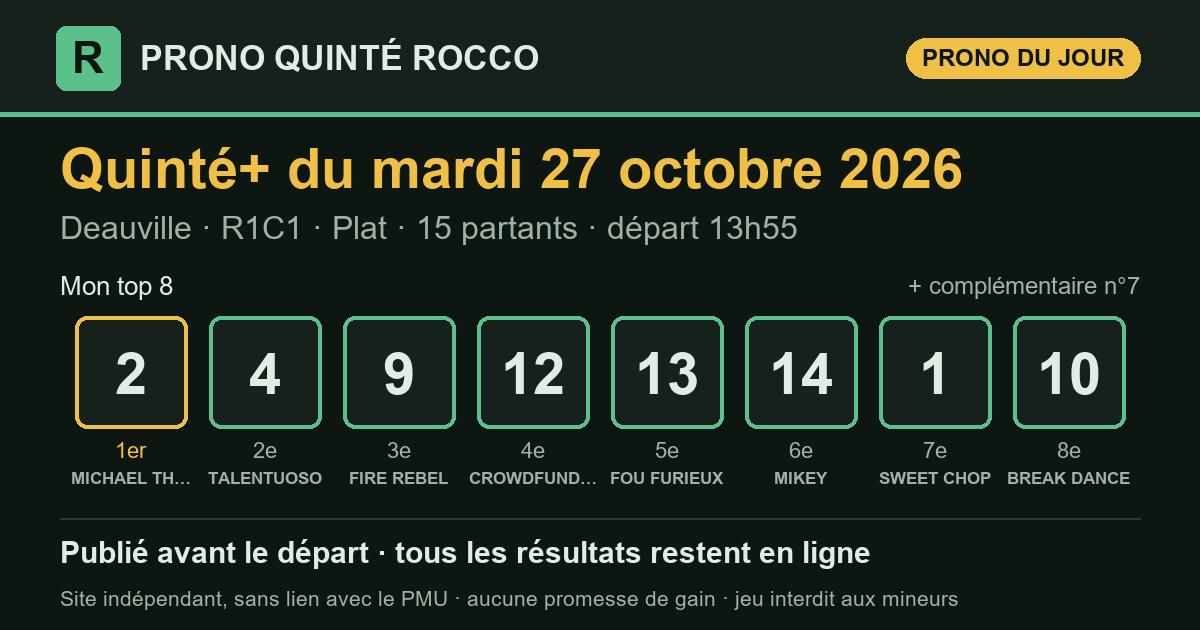
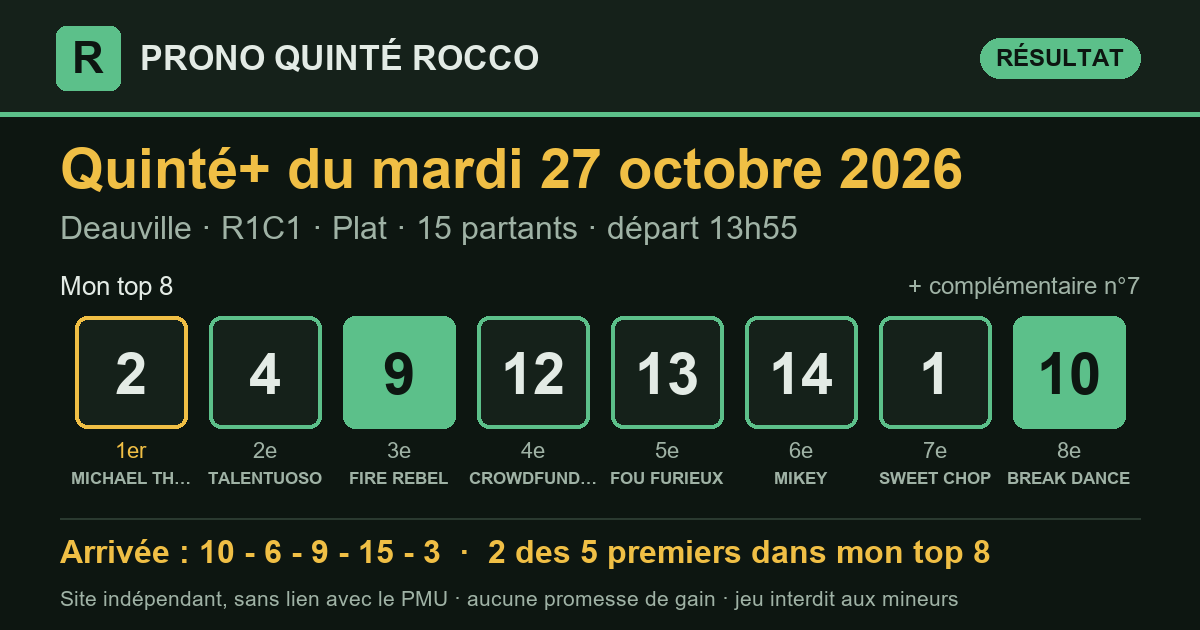
Prono Quinté+ 2026-10-27 Deauville R1C1 — publié le 27/10/2026 14:07 (heure de Paris)

diff --git a/index.html b/index.html
@@ -16,7 +16,7 @@
 <meta property="og:title" content="Pronostic Quinté+ du mardi 27 octobre 2026 — Prono Quinté Rocco">
 <meta property="og:description" content="Pronostic Quinté+ du jour : mon top 8, publié avant le départ, puis tous les résultats et le rendement réel.">
 <meta property="og:url" content="https://prono-quinte-rocco.fr/">
-<meta property="og:image" content="https://prono-quinte-rocco.fr/partage/2026-10-27.png?v=ae9a31dc">
+<meta property="og:image" content="https://prono-quinte-rocco.fr/partage/2026-10-27.png?v=595b31e2">
 <meta property="og:image:type" content="image/png">
 <meta property="og:image:width" content="1200">
 <meta property="og:image:height" content="630">
@@ -31,7 +31,7 @@
 </header>
 <main>
 <section class="une" aria-labelledby="t-jour">
-  <p class="surtitre">Quinté+ du jour</p>
+  <p class="surtitre">Dernier Quinté+</p>
   <h1 id="t-jour">Le prono du Quinté+, résultats compris</h1>
   <p class="chapo">Chaque matin, j'étudie les partants du Quinté+ avec le logiciel que
   j'ai conçu, selon ma propre méthode, qu'une intelligence artificielle m'aide à
@@ -42,10 +42,13 @@
   <p class="meta">Deauville · <strong>R1C1</strong> · Plat · 15 partants · lisibilité <span class="note" aria-label="note 2 sur 5"><i class="on"></i><i class="on"></i><i class=""></i><i class=""></i><i class=""></i></span> 2/5</p>
   <div class="zone-prono">
     <h3 class="zone-titre">Mon top 8</h3>
-    <ol class="partants" aria-label="Mon top 8"><li><span class="rang">1<sup>er</sup></span><span class="tapis ">2</span><span class="nom">MICHAEL THE GREAT</span></li><li><span class="rang">2<sup>e</sup></span><span class="tapis ">4</span><span class="nom">TALENTUOSO</span></li><li><span class="rang">3<sup>e</sup></span><span class="tapis ">9</span><span class="nom">FIRE REBEL</span></li><li><span class="rang">4<sup>e</sup></span><span class="tapis ">12</span><span class="nom">CROWDFUNDING</span></li><li><span class="rang">5<sup>e</sup></span><span class="tapis ">13</span><span class="nom">FOU FURIEUX</span></li><li><span class="rang">6<sup>e</sup></span><span class="tapis ">14</span><span class="nom">MIKEY</span></li><li><span class="rang">7<sup>e</sup></span><span class="tapis ">1</span><span class="nom">SWEET CHOP</span></li><li><span class="rang">8<sup>e</sup></span><span class="tapis ">10</span><span class="nom">BREAK DANCE</span></li><li><span class="rang">compl.</span><span class="tapis creux">7</span><span class="nom">OMICRONE</span></li></ol>
+    <ol class="partants" aria-label="Mon top 8"><li><span class="rang">1<sup>er</sup></span><span class="tapis ">2</span><span class="nom">MICHAEL THE GREAT</span></li><li><span class="rang">2<sup>e</sup></span><span class="tapis ">4</span><span class="nom">TALENTUOSO</span></li><li><span class="rang">3<sup>e</sup></span><span class="tapis plein">9</span><span class="nom">FIRE REBEL</span></li><li><span class="rang">4<sup>e</sup></span><span class="tapis ">12</span><span class="nom">CROWDFUNDING</span></li><li><span class="rang">5<sup>e</sup></span><span class="tapis ">13</span><span class="nom">FOU FURIEUX</span></li><li><span class="rang">6<sup>e</sup></span><span class="tapis ">14</span><span class="nom">MIKEY</span></li><li><span class="rang">7<sup>e</sup></span><span class="tapis ">1</span><span class="nom">SWEET CHOP</span></li><li><span class="rang">8<sup>e</sup></span><span class="tapis plein">10</span><span class="nom">BREAK DANCE</span></li><li><span class="rang">compl.</span><span class="tapis creux">7</span><span class="nom">OMICRONE</span></li></ol>
     <div class="pied-carte"><span>Analysé le 27/10 à 11:44 · en ligne le 27/10 à 11:48 · départ à 13:55 (heure de Paris)</span><span><a href="quinte/2026-10-27.html">Détail de la course</a></span></div>
   </div>
-  <div class="zone-arrivee attente"><p>L'arrivée officielle s'affichera ici après la course.</p></div>
+  <div class="zone-arrivee">
+    <div class="zone-tete"><h3 class="zone-titre">Arrivée officielle</h3><span class="etat place">2 des 5 premiers dans mon top 8</span><span class="etat non">mon 1er (n°2) : non placé</span></div>
+    <ol class="partants" aria-label="Arrivée officielle"><li><span class="rang">1<sup>er</sup></span><span class="tapis plein">10</span><span class="nom">BREAK DANCE</span></li><li><span class="rang">2<sup>e</sup></span><span class="tapis hors">6</span><span class="nom">AGIOTA</span></li><li><span class="rang">3<sup>e</sup></span><span class="tapis plein">9</span><span class="nom">FIRE REBEL</span></li><li><span class="rang">4<sup>e</sup></span><span class="tapis hors">15</span><span class="nom">SALALAH</span></li><li><span class="rang">5<sup>e</sup></span><span class="tapis hors">3</span><span class="nom">ZEROSTRESS</span></li></ol>
+  </div>
 </article>
 </section>
 <section class="suivre" aria-label="Suivre et soutenir">
@@ -75,7 +78,7 @@
 </section>
 <section class="bilan" aria-labelledby="t-bilan">
   <h2 id="t-bilan">Mon bilan depuis le 8 septembre 2026</h2>
-  <div class="tableau chiffres"><div class="case"><span class="gros ">74 %</span><span class="lib">des arrivants trouvés dans mon top 8</span><span class="ref">un top 8 tiré au hasard : 51 %</span></div><div class="case"><span class="gros ">85 %</span><span class="lib">des gagnants présents dans mon top 8</span><span class="ref"></span></div><div class="case"><span class="gros ">52 %</span><span class="lib">mon 1er placé</span><span class="ref">sur 48 Quintés</span></div><div class="case"><span class="gros perte">0,97 €</span><span class="lib">rendus pour 1 € joué placé sur mon 1er</span><span class="ref">rapports officiels PMU</span></div><div class="case"><span class="gros perte">0,49 €</span><span class="lib">rendus pour 1 € joué en Quinté+ combiné sur mon top 8</span><span class="ref">56 combinaisons, rapports PMU.fr, sur 48 Quintés</span></div></div>
+  <div class="tableau chiffres"><div class="case"><span class="gros ">73 %</span><span class="lib">des arrivants trouvés dans mon top 8</span><span class="ref">un top 8 tiré au hasard : 51 %</span></div><div class="case"><span class="gros ">86 %</span><span class="lib">des gagnants présents dans mon top 8</span><span class="ref"></span></div><div class="case"><span class="gros ">52 %</span><span class="lib">mon 1er placé</span><span class="ref">sur 48 Quintés</span></div><div class="case"><span class="gros perte">0,97 €</span><span class="lib">rendus pour 1 € joué placé sur mon 1er</span><span class="ref">rapports officiels PMU</span></div><div class="case"><span class="gros perte">0,48 €</span><span class="lib">rendus pour 1 € joué en Quinté+ combiné sur mon top 8</span><span class="ref">56 combinaisons, rapports PMU.fr, sur 49 Quintés</span></div></div>
   <p class="avertissement">Moins de 1 € rendu pour 1 € joué : suivre mon prono à la lettre fait <strong>perdre de l'argent</strong> sur cette période. Il sert à analyser une course, pas à promettre un gain.</p>
 </section>
 </main>

diff --git a/quinte/2026-10-27.html b/quinte/2026-10-27.html
@@ -16,7 +16,7 @@
 <meta property="og:title" content="Pronostic Quinté+ du mardi 27 octobre 2026 à Deauville — Prono Quinté Rocco">
 <meta property="og:description" content="Prono Quinté+ du mardi 27 octobre 2026 (Deauville) : mon top 8, l&#x27;arrivée officielle et les rapports PMU.fr.">
 <meta property="og:url" content="https://prono-quinte-rocco.fr/quinte/2026-10-27.html">
-<meta property="og:image" content="https://prono-quinte-rocco.fr/partage/2026-10-27.png?v=ae9a31dc">
+<meta property="og:image" content="https://prono-quinte-rocco.fr/partage/2026-10-27.png?v=595b31e2">
 <meta property="og:image:type" content="image/png">
 <meta property="og:image:width" content="1200">
 <meta property="og:image:height" content="630">
@@ -35,15 +35,25 @@
   <h1>Pronostic Quinté+ du mardi 27 octobre 2026</h1>
   <p class="chapo">Deauville · R1C1 · Plat · 15 partants</p>
   <article class="carte-course">
-  <div class="tete"><h2>Mon prono</h2></div>
+  <div class="tete"><h2>Mon prono et l&#x27;arrivée officielle</h2></div>
   <p class="meta">Deauville · <strong>R1C1</strong> · Plat · 15 partants · lisibilité <span class="note" aria-label="note 2 sur 5"><i class="on"></i><i class="on"></i><i class=""></i><i class=""></i><i class=""></i></span> 2/5</p>
   <div class="zone-prono">
     <h3 class="zone-titre">Mon top 8</h3>
-    <ol class="partants" aria-label="Mon top 8"><li><span class="rang">1<sup>er</sup></span><span class="tapis ">2</span><span class="nom">MICHAEL THE GREAT</span></li><li><span class="rang">2<sup>e</sup></span><span class="tapis ">4</span><span class="nom">TALENTUOSO</span></li><li><span class="rang">3<sup>e</sup></span><span class="tapis ">9</span><span class="nom">FIRE REBEL</span></li><li><span class="rang">4<sup>e</sup></span><span class="tapis ">12</span><span class="nom">CROWDFUNDING</span></li><li><span class="rang">5<sup>e</sup></span><span class="tapis ">13</span><span class="nom">FOU FURIEUX</span></li><li><span class="rang">6<sup>e</sup></span><span class="tapis ">14</span><span class="nom">MIKEY</span></li><li><span class="rang">7<sup>e</sup></span><span class="tapis ">1</span><span class="nom">SWEET CHOP</span></li><li><span class="rang">8<sup>e</sup></span><span class="tapis ">10</span><span class="nom">BREAK DANCE</span></li><li><span class="rang">compl.</span><span class="tapis creux">7</span><span class="nom">OMICRONE</span></li></ol>
+    <ol class="partants" aria-label="Mon top 8"><li><span class="rang">1<sup>er</sup></span><span class="tapis ">2</span><span class="nom">MICHAEL THE GREAT</span></li><li><span class="rang">2<sup>e</sup></span><span class="tapis ">4</span><span class="nom">TALENTUOSO</span></li><li><span class="rang">3<sup>e</sup></span><span class="tapis plein">9</span><span class="nom">FIRE REBEL</span></li><li><span class="rang">4<sup>e</sup></span><span class="tapis ">12</span><span class="nom">CROWDFUNDING</span></li><li><span class="rang">5<sup>e</sup></span><span class="tapis ">13</span><span class="nom">FOU FURIEUX</span></li><li><span class="rang">6<sup>e</sup></span><span class="tapis ">14</span><span class="nom">MIKEY</span></li><li><span class="rang">7<sup>e</sup></span><span class="tapis ">1</span><span class="nom">SWEET CHOP</span></li><li><span class="rang">8<sup>e</sup></span><span class="tapis plein">10</span><span class="nom">BREAK DANCE</span></li><li><span class="rang">compl.</span><span class="tapis creux">7</span><span class="nom">OMICRONE</span></li></ol>
     <div class="pied-carte"><span>Analysé le 27/10 à 11:44 · en ligne le 27/10 à 11:48 · départ à 13:55 (heure de Paris)</span><span></span></div>
   </div>
-  <div class="zone-arrivee attente"><p>L'arrivée officielle s'affichera ici après la course.</p></div>
+  <div class="zone-arrivee">
+    <div class="zone-tete"><h3 class="zone-titre">Arrivée officielle</h3><span class="etat place">2 des 5 premiers dans mon top 8</span><span class="etat non">mon 1er (n°2) : non placé</span></div>
+    <ol class="partants" aria-label="Arrivée officielle"><li><span class="rang">1<sup>er</sup></span><span class="tapis plein">10</span><span class="nom">BREAK DANCE</span></li><li><span class="rang">2<sup>e</sup></span><span class="tapis hors">6</span><span class="nom">AGIOTA</span></li><li><span class="rang">3<sup>e</sup></span><span class="tapis plein">9</span><span class="nom">FIRE REBEL</span></li><li><span class="rang">4<sup>e</sup></span><span class="tapis hors">15</span><span class="nom">SALALAH</span></li><li><span class="rang">5<sup>e</sup></span><span class="tapis hors">3</span><span class="nom">ZEROSTRESS</span></li></ol>
+  </div>
 </article>
+<section class="carte-course rapports" aria-labelledby="t-rap">
+  <div class="tete"><h2 id="t-rap">Les rapports</h2></div>
+  <div class="deux">
+    <div><h3>Ce qu'aurait rendu mon prono</h3><dl class="kv"><dt>1 € placé sur mon 1er (n°2)</dt><dd>rapport manquant</dd><dt>1 € gagnant sur mon 1er</dt><dd>rapport manquant</dd><dt>Quinté+ combiné sur mon top 8 (mise 112 €)</dt><dd>0,00 €</dd><dt>dont</dt><dd>aucun gain</dd></dl></div>
+    <div><h3>Rapports officiels</h3><dl class="kv"><dt>e-Quinté+ Désordre (2 €)</dt><dd>11 699,00 €</dd><dt>e-Bonus 4sur5 (2 €)</dt><dd>58,60 €</dd><dt>e-Bonus 3 (2 €)</dt><dd>37,20 €</dd></dl></div>
+  </div>
+</section>
 </section>
 </main>
 <footer class="pied">

diff --git a/partants.html b/partants.html
@@ -35,7 +35,7 @@
     <p class="fiche-depart">Départ <b>13:55</b> <span>heure de Paris</span></p>
   </div>
   <p class="surtitre">Les pronostics ailleurs sur le web</p>
-  <div class="liens"><a class="lien-ext" href="https://www.turfoo.fr/programmes-courses/261027/reunion1-deauville/course1-prix-d-utah-beach/pronostics-presse/" rel="noopener" target="_blank"><b>Les pronostics de la presse →</b><span>sur Turfoo (site extérieur)</span></a><a class="lien-ext" href="https://www.geny.com/programme/2026-10-27" rel="noopener" target="_blank"><b>Partants et pronostics →</b><span>programme du jour sur Geny (site extérieur)</span></a></div>
+  <div class="liens"><a class="lien-ext" href="https://www.turfoo.fr/programmes-courses/261027/" rel="noopener" target="_blank"><b>Les pronostics de la presse →</b><span>sur Turfoo (site extérieur)</span></a><a class="lien-ext" href="https://www.geny.com/programme/2026-10-27" rel="noopener" target="_blank"><b>Partants et pronostics →</b><span>programme du jour sur Geny (site extérieur)</span></a></div>
   <div class="liste-boite"><table class="liste-partants">
     <thead><tr><th>N°</th><th>Cheval</th><th class="cote"><span class="long">Cote du matin</span><span class="court">Cote</span></th>
     <th class="ia"><span class="long">Mon prono</span><span class="court">Prono</span></th></tr></thead>
@@ -57,62 +57,62 @@
 </tr><tr>
   <td><span class="tapis petit">4</span></td>
   <td><span class="cheval">TALENTUOSO</span><span class="sous">M.GRANDIN · PE.DUBOIS (S)</span></td>
-  <td class="cote num">7,9</td>
+  <td class="cote num">7,8</td>
   <td class="ia"><span class="etat place">2<sup>e</sup></span></td>
 </tr><tr>
   <td><span class="tapis petit">5</span></td>
   <td><span class="cheval">HELLO CAREL</span><span class="sous">M.MARQUETTE · G.MOSSE (S)</span></td>
-  <td class="cote num">20,0</td>
+  <td class="cote num">21,0</td>
   <td class="ia">—</td>
 </tr><tr>
   <td><span class="tapis petit">6</span></td>
   <td><span class="cheval">AGIOTA</span><span class="sous">PC.BOUDOT · M.DELCHER SANCHEZ</span></td>
-  <td class="cote num">37,0</td>
+  <td class="cote num">38,0</td>
   <td class="ia">—</td>
 </tr><tr>
   <td><span class="tapis petit">7</span></td>
   <td><span class="cheval">OMICRONE</span><span class="sous">A.HAMELIN · P.GROUALLE (S)</span></td>
-  <td class="cote num">9,8</td>
+  <td class="cote num">9,3</td>
   <td class="ia"><span class="etat place">compl.</span></td>
 </tr><tr>
   <td><span class="tapis petit">8</span></td>
   <td><span class="cheval">ROYALWOOD</span><span class="sous">F.VALLE SKAR · MME C.BARANDE BARBE</span></td>
-  <td class="cote num">26,0</td>
+  <td class="cote num">27,0</td>
   <td class="ia">—</td>
 </tr><tr>
   <td><span class="tapis petit">9</span></td>
   <td><span class="cheval">FIRE REBEL</span><span class="sous">F.LEFEBVRE · A.SPANU</span></td>
-  <td class="cote num">7,8</td>
+  <td class="cote num">7,4</td>
   <td class="ia"><span class="etat place">3<sup>e</sup></span></td>
 </tr><tr>
   <td><span class="tapis petit">10</span></td>
   <td><span class="cheval">BREAK DANCE</span><span class="sous">M.BARZALONA · G.MOSSE (S)</span></td>
-  <td class="cote num">11,0</td>
+  <td class="cote num">12,0</td>
   <td class="ia"><span class="etat place">8<sup>e</sup></span></td>
 </tr><tr>
   <td><span class="tapis petit">11</span></td>
   <td><span class="cheval">MAJOR OAK</span><span class="sous">H.LEBOUC · MF.WEISSMEIER</span></td>
-  <td class="cote num">25,0</td>
+  <td class="cote num">26,0</td>
   <td class="ia">—</td>
 </tr><tr>
   <td><span class="tapis petit">12</span></td>
   <td><span class="cheval">CROWDFUNDING</span><span class="sous">R.MANGIONE · C.BOUTIN (S)</span></td>
-  <td class="cote num">15,0</td>
+  <td class="cote num">14,0</td>
   <td class="ia"><span class="etat place">4<sup>e</sup></span></td>
 </tr><tr>
   <td><span class="tapis petit">13</span></td>
   <td><span class="cheval">FOU FURIEUX</span><span class="sous">M.GUYON · N.CAULLERY</span></td>
-  <td class="cote num">9,2</td>
+  <td class="cote num">9,7</td>
   <td class="ia"><span class="etat place">5<sup>e</sup></span></td>
 </tr><tr>
   <td><span class="tapis petit">14</span></td>
   <td><span class="cheval">MIKEY</span><span class="sous">A.LEMAITRE · AJ.BAPTISTA RIBEIRO DE ABREU</span></td>
-  <td class="cote num">11,0</td>
+  <td class="cote num">12,0</td>
   <td class="ia"><span class="etat place">6<sup>e</sup></span></td>
 </tr><tr>
   <td><span class="tapis petit">15</span></td>
   <td><span class="cheval">SALALAH</span><span class="sous">E.HARDOUIN · J.ANDREU (S)</span></td>
-  <td class="cote num">15,0</td>
+  <td class="cote num">16,0</td>
   <td class="ia">—</td>
 </tr><tr class="np">
   <td><span class="tapis petit">16</span></td>
@@ -122,7 +122,7 @@
 </tr></tbody>
   </table></div>
   <p class="meta">La colonne « Mon prono » donne le rang de chaque cheval dans mon top 8, tel qu&#x27;il est publié sur ce site. Sous chaque cheval : jockey · entraîneur. Partants et cotes : programme
-  officiel du PMU, lu le 27/10 à 11:48 (heure de Paris). NP = non-partant.</p>
+  officiel du PMU, lu le 27/10 à 14:07 (heure de Paris). NP = non-partant.</p>
 </section>
 </main>
 <footer class="pied">

diff --git a/resultats.html b/resultats.html
@@ -40,11 +40,11 @@
     <th colspan="4" class="res g-res">Le résultat officiel</th></tr>
     <tr><th>Date</th><th>Course</th><th>Top 8</th><th class="res c-arr">Arrivée</th>
     <th class="res">Trouvés</th><th class="res">Mon 1er</th><th class="res mont">Quinté+ top 8<br>(mise 112 €)</th></tr></thead>
-    <tbody><tr class="attente">
+    <tbody><tr>
   <td class="c-date"><a href="quinte/2026-10-27.html">27/10</a></td>
   <td class="c-course">Deauville<br><span class="meta">R1C1 · Plat</span></td>
-  <td class="c-top8" data-label="Mon top 8"><div class="rangee"><span class="tapis petit">2</span><span class="tapis petit">4</span><span class="tapis petit">9</span><span class="tapis petit">12</span><span class="tapis petit">13</span><span class="tapis petit">14</span><span class="tapis petit">1</span><span class="tapis petit">10</span></div></td>
-  <td class="res c-arr" data-label="Arrivée"><span class="etat attente">en attente</span></td><td class="res num c-trouves" data-label="Trouvés">—</td><td class="res c-premier" data-label="Mon 1er"><span class="etat attente">—</span></td><td class="res mont c-mont" data-label="Quinté+ top 8 (mise 112 €)">—</td>
+  <td class="c-top8" data-label="Mon top 8"><div class="rangee"><span class="tapis petit">2</span><span class="tapis petit">4</span><span class="tapis plein petit">9</span><span class="tapis petit">12</span><span class="tapis petit">13</span><span class="tapis petit">14</span><span class="tapis petit">1</span><span class="tapis plein petit">10</span></div></td>
+  <td class="res c-arr" data-label="Arrivée"><div class="rangee"><span class="tapis plein petit" title="1er">10</span><span class="tapis hors petit" title="2e">6</span><span class="tapis plein petit" title="3e">9</span><span class="tapis hors petit" title="4e">15</span><span class="tapis hors petit" title="5e">3</span></div></td><td class="res num c-trouves" data-label="Trouvés">2/5</td><td class="res c-premier" data-label="Mon 1er"><span class="etat non">non placé</span></td><td class="res mont c-mont perte" data-label="Quinté+ top 8 (mise 112 €)">0,00 €</td>
 </tr><tr>
   <td class="c-date"><a href="quinte/2026-10-26.html">26/10</a></td>
   <td class="c-course">Chantilly<br><span class="meta">R1C4 · Plat</span></td>
@@ -290,7 +290,7 @@
 </section>
 <section class="bilan" aria-labelledby="t-bilan">
   <h2 id="t-bilan">Mon bilan depuis le 8 septembre 2026</h2>
-  <div class="tableau chiffres"><div class="case"><span class="gros ">74 %</span><span class="lib">des arrivants trouvés dans mon top 8</span><span class="ref">un top 8 tiré au hasard : 51 %</span></div><div class="case"><span class="gros ">85 %</span><span class="lib">des gagnants présents dans mon top 8</span><span class="ref"></span></div><div class="case"><span class="gros ">52 %</span><span class="lib">mon 1er placé</span><span class="ref">sur 48 Quintés</span></div><div class="case"><span class="gros perte">0,97 €</span><span class="lib">rendus pour 1 € joué placé sur mon 1er</span><span class="ref">rapports officiels PMU</span></div><div class="case"><span class="gros perte">0,49 €</span><span class="lib">rendus pour 1 € joué en Quinté+ combiné sur mon top 8</span><span class="ref">56 combinaisons, rapports PMU.fr, sur 48 Quintés</span></div></div>
+  <div class="tableau chiffres"><div class="case"><span class="gros ">73 %</span><span class="lib">des arrivants trouvés dans mon top 8</span><span class="ref">un top 8 tiré au hasard : 51 %</span></div><div class="case"><span class="gros ">86 %</span><span class="lib">des gagnants présents dans mon top 8</span><span class="ref"></span></div><div class="case"><span class="gros ">52 %</span><span class="lib">mon 1er placé</span><span class="ref">sur 48 Quintés</span></div><div class="case"><span class="gros perte">0,97 €</span><span class="lib">rendus pour 1 € joué placé sur mon 1er</span><span class="ref">rapports officiels PMU</span></div><div class="case"><span class="gros perte">0,48 €</span><span class="lib">rendus pour 1 € joué en Quinté+ combiné sur mon top 8</span><span class="ref">56 combinaisons, rapports PMU.fr, sur 49 Quintés</span></div></div>
   <p class="avertissement">Moins de 1 € rendu pour 1 € joué : suivre mon prono à la lettre fait <strong>perdre de l'argent</strong> sur cette période. Il sert à analyser une course, pas à promettre un gain.</p>
 </section>
 </main>
